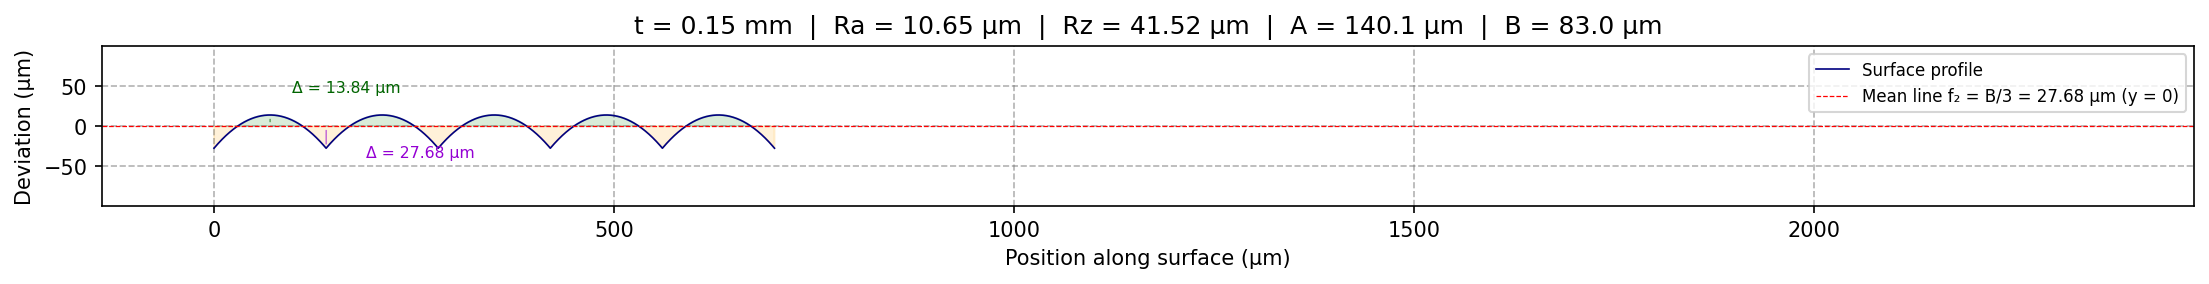
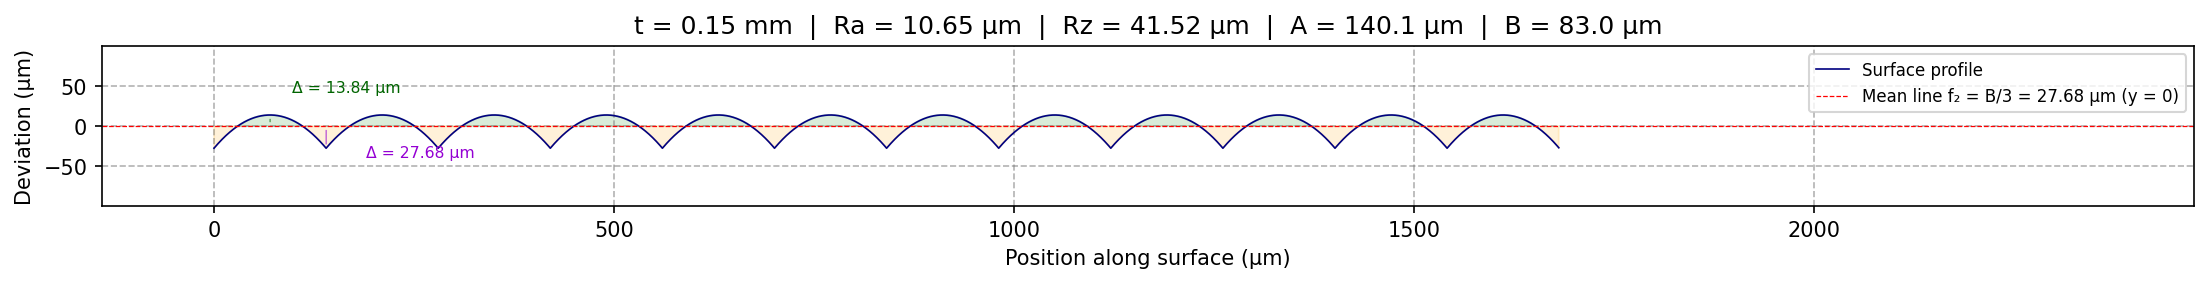
figure parameter setting

Changed region(s): [[0.3436, 0.3944, 0.7184, 0.507]]

diff --git a/Aerosol/Documents/edit_luc.tex b/Aerosol/Documents/edit_luc.tex
@@ -1,0 +1,33 @@
+% ── Figure: profiles for t = 0.10 mm and t = 0.50 mm ──────────────────
+\begin{figure}[h]
+    \centering
+    \begin{subfigure}{\linewidth}
+        \centering
+        \includegraphics[width=0.98\linewidth]{figs/profile_landscape_t0_10mm.png}
+        \caption{$t = 0.10$~mm: $R_a = 7.10$~µm, $R_z = 27.68$~µm}
+        \label{fig:profile_t01}
+    \end{subfigure}
+    \vspace{2mm}
+    \begin{subfigure}{\linewidth}
+        \centering
+        \includegraphics[width=0.98\linewidth]{figs/profile_landscape_t0_50mm.png}
+        \caption{$t = 0.50$~mm: $R_a = 35.51$~µm, $R_z = 138.40$~µm}
+        \label{fig:profile_t05}
+    \end{subfigure}
+    \caption{Analytically derived surface profiles for the minimum and maximum layer heights tested, computed from the parabolic roughness model (Eq.~\ref{eq:parabolic}). The dashed red line denotes the mean surface level. Green and orange shaded regions indicate material above and below the mean, respectively.}
+    \label{fig:profiles_extreme}
+\end{figure}
+
+% ── Figure: Ra and Rz vs. layer height ─────────────────────────────────
+\begin{figure}[h]
+    \centering
+    \includegraphics[width=0.92\linewidth]{figs/Ra_Rz_vs_t.png}
+    \caption{Analytically derived $R_a$ and $R_z$ as a function of FDM layer height, computed from the parabolic surface profile model. Both parameters scale linearly with layer height across the tested range ($t = 0.10$–$0.50$~mm).}
+    \label{fig:Ra_Rz_vs_t}
+\end{figure}
+
+% ── Paragraph 1: quantification ────────────────────────────────────────
+From the parabolic profile model (Eq.~\ref{eq:parabolic}), the arithmetic mean roughness $R_a$ and the maximum peak-to-valley height $R_z$ can be derived analytically for each tested layer height. Figure~\ref{fig:profiles_extreme} shows the computed surface profiles for the two extreme cases: $t = 0.10$~mm and $t = 0.50$~mm. At the minimum layer height, the profile exhibits shallow, closely spaced grooves with $R_a = 7.10$~µm and $R_z = 27.68$~µm. At the maximum layer height, the grooves are significantly deeper and wider, yielding $R_a = 35.51$~µm and $R_z = 138.40$~µm. As shown in Figure~\ref{fig:Ra_Rz_vs_t}, both $R_a$ and $R_z$ scale linearly with layer height across the full tested range. This linear relationship follows directly from the geometric self-similarity of the parabolic profile: because the groove shape is described by the same functional form at all layer heights and only its amplitude scales with $t$, the roughness integrals that define $R_a$ and $R_z$ both reduce to expressions proportional to $t$.
+
+% ── Paragraph 2: forward pointer to ink behavior ───────────────────────
+Beyond their role as surface descriptors, $R_a$ and $R_z$ directly determine the groove volume available to receive deposited ink. As layer height increases, both groove depth and groove width grow, enlarging the total groove cross-sectional area per unit projected surface. This has two consequences for AJP deposition: the actual surface area that the aerosol jet must cover per unit projected length increases, reducing the effective particle delivery density; and the groove geometry creates conditions under which deposited ink in the liquid state may redistribute away from its initial landing position. The interplay between these two effects governs whether a printed trace remains connected across the groove region, and is examined in detail in the Results and Discussion section.

diff --git a/Aerosol/Documents/MSEC_JMNSE_2026/main.tex b/Aerosol/Documents/MSEC_JMNSE_2026/main.tex
@@ -175,7 +175,7 @@ Based on the surface roughness model, the sidewall surface profile is approximat
     f_p(x) = -2 \left[ \frac{t - 2\epsilon_y}{(t - \epsilon_x)^2} \right] x^2 + 2 \left[ \frac{t - 2\epsilon_y}{(t - \epsilon_x)} \right] x.
 \end{equation}
 
-where $t$ represents the layer thickness (layer hight) and $\theta$ is the stratification angle. The parameters $\epsilon_x$ and $\epsilon_y$ are defined as error coefficients which quantify the deviation of layer thickness along the X and Y directions respectively. They are modeled as independent random variables following normal distributions determined through experimental measurements. These coefficients integrate the influence of various error sources \cite{ahn2009representation}, such as geometric inaccuracies, process parameter variations, machine imperfections, and environmental factors into the surface profile model.
+where $t$ represents the layer thickness (layer height) and $\theta$ is the stratification angle. The parameters $\epsilon_x$ and $\epsilon_y$ are defined as error coefficients which quantify the deviation of layer thickness along the X and Y directions respectively. They are modeled as independent random variables following normal distributions determined through experimental measurements. These coefficients integrate the influence of various error sources \cite{ahn2009representation}, such as geometric inaccuracies, process parameter variations, machine imperfections, and environmental factors into the surface profile model.
 
 % added section
  

diff --git a/Aerosol/code/ra_solver/plot.py b/Aerosol/code/ra_solver/plot.py
@@ -58,7 +58,7 @@ def plot_Ra_vs_t(t_array, Ra_array, Rz_array,
 
 
 def plot_profile_landscape(t_marks, alpha_x=ALPHA_X, alpha_y=ALPHA_Y,
-                           n_layers=N_LAYERS, n_pts_per_layer=300,
+                           n_layers=5, n_pts_per_layer=300,
                            output_dir="."):
     """
     Save one PNG per entry in t_marks to output_dir.
@@ -98,7 +98,7 @@ def plot_profile_landscape(t_marks, alpha_x=ALPHA_X, alpha_y=ALPHA_Y,
         Rz  = Rz_analytical(t, alpha_x, alpha_y)
 
         x_segs, y_segs = [], []
-        for k in range(n_layers):
+        for k in range(12):
             endpoint = (k == n_layers - 1)
             x_local = np.linspace(0.0, A, n_pts_per_layer, endpoint=endpoint)
             x_segs.append(x_local + k * A)

diff --git a/Aerosol/code/ra_solver/model.py b/Aerosol/code/ra_solver/model.py
@@ -112,7 +112,7 @@ def validate_analytical_vs_numerical(t_values, tol=1e-6):
     Prints a summary table and raises AssertionError if any relative error
     exceeds tol.
     """
-    print(f"\n{'t (mm)':>10}  {'Ra_analyt (mm)':>16}  {'Ra_numer (mm)':>15}  {'rel err':>10}")
+    print(f"\n{'t (mm)':>10}  {'Ra_analyt (mm)':>16}  {'Ra_number (mm)':>15}  {'rel err':>10}")
     print("-" * 60)
     for t in t_values:
         ra_a = Ra_analytical(float(t))

diff --git a/Aerosol/code/ra_solver/config.py b/Aerosol/code/ra_solver/config.py
@@ -18,5 +18,5 @@ THETA_DEG = 90.0
 N_QUAD = 10000
 
 # Profile landscape plot
-N_LAYERS = 5   # number of layer periods to tile in the profile view
+N_LAYERS = 12   # number of layer periods to tile in the profile view
 
